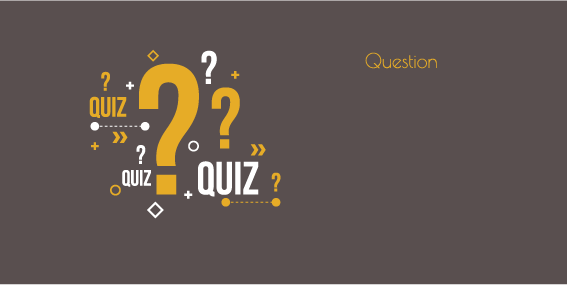
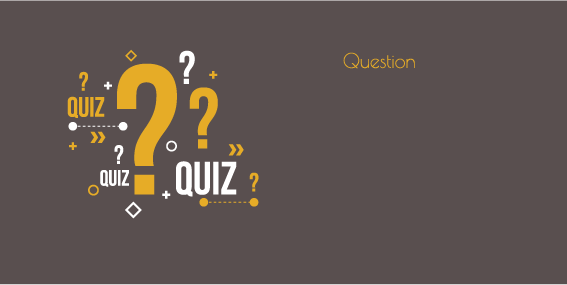
more styling

Changed region(s): [[0.1199, 0.1684, 0.5097, 0.7579], [0.5996, 0.1684, 0.7795, 0.2526]]

diff --git a/index.html b/index.html
@@ -15,8 +15,8 @@
 <body>
     <div class="container">
         <div class="row">
-            <img src="assets/images/quizbg.png" class="img-responsive col-lg-12" alt="">
-            <div id="containGame" class="col-lg-6">
+            <img src="assets/images/quizbg.png" class="img-responsive col-lg-12 col-xl-12" alt="">
+            <div id="containGame" class="col-lg-6 col-md-6">
                 <div id="questionStyle">
                     <div id="tagLine" class="col-lg-8"></div>
                     <div id="question" class="questionField col-lg-8"></div>
@@ -29,14 +29,15 @@
                 <div id="next" class="col-lg-4">Confirm Answer</div>
             </div>
         </div>
+        <br><br>
         <div id="statStyle" class="row">
-            <div class="col-lg-6">
+            <div class="col-lg-6 col-md-6">
                 <div id="correct" class="col-lg-3"></div>
                 <div id="incorrect" class="col-lg-3"></div>
                 <div class="col-lg-6" id="timer"> </div>
             </div>
         </div>
-        <div id="statStyle2" class="row col-lg-6">
+        <div id="statStyle2" class="row col-lg-6 col-md-6">
             <div class="col-lg-3">Correct</div>
             <div class="col-lg-3">Incorrect</div>
             <div class="col-lg-6">Timer</div>

diff --git a/assets/css/style.css b/assets/css/style.css
@@ -14,6 +14,7 @@
 
 .answerField {
 	padding-top: 5px;
+	font-size: 18px;
 }
 .answerField:hover {
 	color: #e6ac27;
@@ -38,16 +39,22 @@
 
 #statStyle {
     position: relative;
-    bottom: 261px;
+    bottom: 333px;
     left: 665px;
     color: white;
     font-size: 30px;
 }
 #statStyle2 {
     position: relative;
-    bottom: 338px;
+    bottom: 410px;
     left: 659px;
     color: #e6ac27;
     font-size: 24px;
     font-style: 20px;
+    padding-left: 5px;
 }
+
+.statDiv {
+	position: relative;
+}
+
